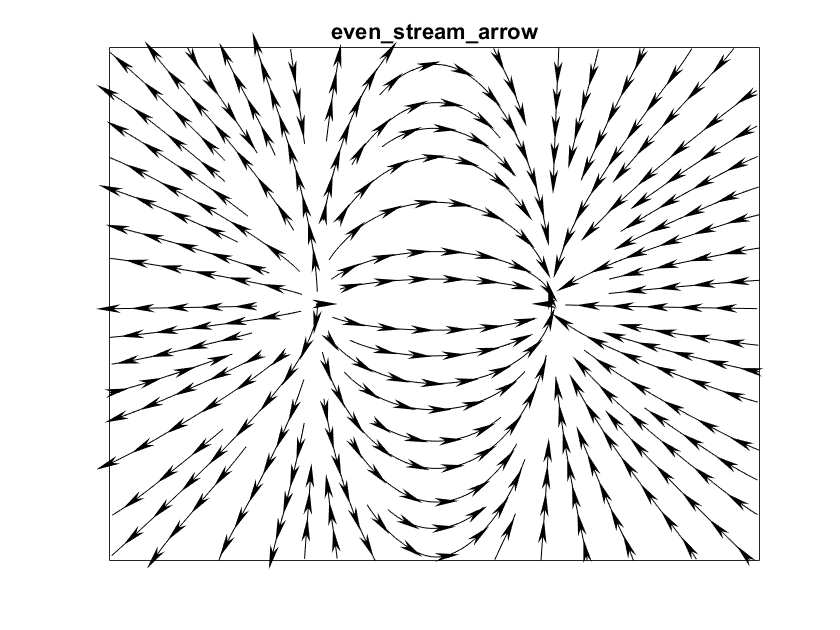
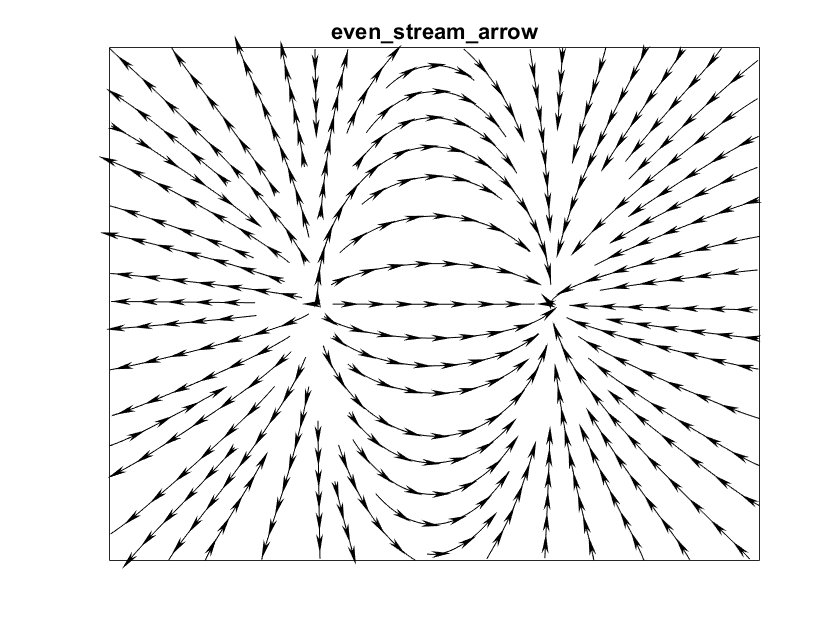
Updated docs, noted remaining tasks

diff --git a/html/even_stream_demo.html b/html/even_stream_demo.html
@@ -6,7 +6,7 @@
    <!--
 This HTML was auto-generated from MATLAB code.
 To make changes, update the MATLAB code and republish this document.
-      --><title>Evenly Spaced Streamlines</title><meta name="generator" content="MATLAB 9.0"><link rel="schema.DC" href="http://purl.org/dc/elements/1.1/"><meta name="DC.date" content="2016-10-02"><meta name="DC.source" content="even_stream_demo.m"><style type="text/css">
+      --><title>Evenly Spaced Streamlines</title><meta name="generator" content="MATLAB 9.0"><link rel="schema.DC" href="http://purl.org/dc/elements/1.1/"><meta name="DC.date" content="2016-10-03"><meta name="DC.source" content="even_stream_demo.m"><style type="text/css">
 html,body,div,span,applet,object,iframe,h1,h2,h3,h4,h5,h6,p,blockquote,pre,a,abbr,acronym,address,big,cite,code,del,dfn,em,font,img,ins,kbd,q,s,samp,small,strike,strong,sub,sup,tt,var,b,u,i,center,dl,dt,dd,ol,ul,li,fieldset,form,label,legend,table,caption,tbody,tfoot,thead,tr,th,td{margin:0;padding:0;border:0;outline:0;font-size:100%;vertical-align:baseline;background:transparent}body{line-height:1}ol,ul{list-style:none}blockquote,q{quotes:none}blockquote:before,blockquote:after,q:before,q:after{content:'';content:none}:focus{outine:0}ins{text-decoration:none}del{text-decoration:line-through}table{border-collapse:collapse;border-spacing:0}
 
 html { min-height:100%; margin-bottom:1px; }
@@ -100,8 +100,8 @@ ax = gca;
 ax.XTick = [];
 ax.YTick = [];
 fprintf(<span class="string">'even_stream_line: %.3f s elapsed\n'</span>, toc);
-</pre><pre class="codeoutput">even_stream_data: 0.674 s elapsed
-even_stream_line: 0.052 s elapsed
+</pre><pre class="codeoutput">even_stream_data: 0.795 s elapsed
+even_stream_line: 0.067 s elapsed
 </pre><img vspace="5" hspace="5" src="even_stream_demo_02.png" style="width:560px;height:420px;" alt=""> <h2>Plot stream lines with arrow glyphs<a name="3"></a></h2><p>Compute streamlines and plot lines with arrow glyphs to indicate flow direction.</p><pre class="codeinput"><span class="comment">% compute</span>
 tic
 xy = even_stream_data(xx, yy, dzdx, dzdy, 0.05, 0.025);
@@ -112,15 +112,15 @@ tic
 hf = figure;
 hf.Name = sprintf(<span class="string">'%s: even stream arrow'</span>, mfilename);
 even_stream_arrow(xy, <span class="string">'LineStyle'</span>, <span class="string">'-'</span>, <span class="string">'LineWidth'</span>, 0.5, <span class="string">'Color'</span>, <span class="string">'k'</span>, <span class="keyword">...</span>
-    <span class="string">'ArrowLength'</span>, 5, <span class="string">'ArrowTipAngle'</span>, 30, <span class="string">'ArrowBaseAngle'</span>, 10, <span class="keyword">...</span>
-    <span class="string">'ArrowSpace'</span>, 10);
+    <span class="string">'ArrowLength'</span>, 4, <span class="string">'ArrowTipAngle'</span>, 30, <span class="string">'ArrowBaseAngle'</span>, 10, <span class="keyword">...</span>
+    <span class="string">'ArrowSpace'</span>, 0.05*range(vv));
 title(<span class="string">'even\_stream\_arrow'</span>);
 ax = gca;
 ax.XTick = [];
 ax.YTick = [];
 fprintf(<span class="string">'even_stream_arrow: %.3f s elapsed\n'</span>, toc);
-</pre><pre class="codeoutput">even_stream_data: 0.714 s elapsed
-even_stream_arrow: 0.435 s elapsed
+</pre><pre class="codeoutput">even_stream_data: 0.621 s elapsed
+even_stream_arrow: 0.645 s elapsed
 </pre><img vspace="5" hspace="5" src="even_stream_demo_03.png" style="width:560px;height:420px;" alt=""> <h2>Plot tapered stream lines<a name="4"></a></h2><p>Plot stream lines with tapering effect, such that line width scales with the distance to the nearest neighboring streamline.</p><pre class="codeinput"><span class="comment">% compute</span>
 tic
 [xy, dist] = even_stream_data(xx, yy, dzdx, dzdy, 0.05, 0.025);
@@ -136,13 +136,9 @@ ax = gca;
 ax.XTick = [];
 ax.YTick = [];
 fprintf(<span class="string">'even_stream_taper: %.3f s elapsed\n'</span>, toc);
-</pre><pre class="codeoutput">even_stream_data: 1.612 s elapsed
-even_stream_taper: 0.134 s elapsed
-</pre><img vspace="5" hspace="5" src="even_stream_demo_04.png" style="width:560px;height:420px;" alt=""> <h2>Plot textured stream lines<a name="5"></a></h2><p>Plot streamlines with texture effect. This is most effective with closely-spaced streamlines, in which case it mimics the popular line-integral-convilution (LIC) method for visualizing flow fields.</p><pre class="codeinput"><span class="comment">% parameters</span>
-dist_sep = 0.003*range(vv);
-dist_test = 0.5*dist_sep;
-
-<span class="comment">% compute</span>
+</pre><pre class="codeoutput">even_stream_data: 1.599 s elapsed
+even_stream_taper: 0.156 s elapsed
+</pre><img vspace="5" hspace="5" src="even_stream_demo_04.png" style="width:560px;height:420px;" alt=""> <h2>Plot textured stream lines<a name="5"></a></h2><p>Plot streamlines with texture effect. This is most effective with closely-spaced streamlines, in which case it mimics the popular line-integral-convilution (LIC) method for visualizing flow fields.</p><pre class="codeinput"><span class="comment">% compute</span>
 tic
 xy = even_stream_data(xx, yy, dzdx, dzdy, 0.003, 0.0015);
 fprintf(<span class="string">'even_stream_data: %.3f s elapsed\n'</span>, toc);
@@ -151,14 +147,14 @@ fprintf(<span class="string">'even_stream_data: %.3f s elapsed\n'</span>, toc);
 tic
 hf = figure;
 hf.Name = sprintf(<span class="string">'%s: even stream texture'</span>, mfilename);
-even_stream_texture(xy, <span class="string">'LineWidth'</span>, 1, <span class="string">'Period'</span>, 20);
+even_stream_texture(xy, <span class="string">'LineWidth'</span>, 1, <span class="string">'Period'</span>, 0.20*range(vv));
 title(<span class="string">'even\_stream\_texture'</span>);
 ax = gca;
 ax.XTick = [];
 ax.YTick = [];
 fprintf(<span class="string">'even_stream_texture: %.3f s elapsed\n'</span>, toc);
-</pre><pre class="codeoutput">even_stream_data: 236.974 s elapsed
-even_stream_texture: 0.592 s elapsed
+</pre><pre class="codeoutput">even_stream_data: 247.593 s elapsed
+even_stream_texture: 0.752 s elapsed
 </pre><img vspace="5" hspace="5" src="even_stream_demo_05.png" style="width:560px;height:420px;" alt=""> <h2>References<a name="6"></a></h2><div><ol><li>Jobard, B., &amp; Lefer, W. (1997). Creating Evenly-Spaced Streamlines of   Arbitrary Density. In W. Lefer &amp; M. Grave (Eds.), Visualization in   Scientific Computing ?97: Proceedings of the Eurographics Workshop in   Boulogne-sur-Mer France, April 28--30, 1997 (pp. 43?55). inbook,   Vienna: Springer Vienna. <a href="http://doi.org/10.1007/978-3-7091-6876-9_5">http://doi.org/10.1007/978-3-7091-6876-9_5</a></li></ol></div><p class="footer"><br><a href="http://www.mathworks.com/products/matlab/">Published with MATLAB&reg; R2016a</a><br></p></div><!--
 ##### SOURCE BEGIN #####
 %% Evenly Spaced Streamlines
@@ -227,8 +223,8 @@ tic
 hf = figure;
 hf.Name = sprintf('%s: even stream arrow', mfilename);
 even_stream_arrow(xy, 'LineStyle', '-', 'LineWidth', 0.5, 'Color', 'k', ...
-    'ArrowLength', 5, 'ArrowTipAngle', 30, 'ArrowBaseAngle', 10, ...
-    'ArrowSpace', 10);
+    'ArrowLength', 4, 'ArrowTipAngle', 30, 'ArrowBaseAngle', 10, ...
+    'ArrowSpace', 0.05*range(vv));
 title('even\_stream\_arrow');
 ax = gca;
 ax.XTick = [];
@@ -260,10 +256,6 @@ fprintf('even_stream_taper: %.3f s elapsed\n', toc);
 % closely-spaced streamlines, in which case it mimics the popular
 % line-integral-convilution (LIC) method for visualizing flow fields.
 
-% parameters
-dist_sep = 0.003*range(vv);
-dist_test = 0.5*dist_sep;
-
 % compute
 tic
 xy = even_stream_data(xx, yy, dzdx, dzdy, 0.003, 0.0015);
@@ -273,7 +265,7 @@ fprintf('even_stream_data: %.3f s elapsed\n', toc);
 tic
 hf = figure;
 hf.Name = sprintf('%s: even stream texture', mfilename);
-even_stream_texture(xy, 'LineWidth', 1, 'Period', 20);
+even_stream_texture(xy, 'LineWidth', 1, 'Period', 0.20*range(vv));
 title('even\_stream\_texture');
 ax = gca;
 ax.XTick = [];

diff --git a/even_stream_demo.m b/even_stream_demo.m
@@ -106,7 +106,7 @@ fprintf('even_stream_data: %.3f s elapsed\n', toc);
 tic
 hf = figure;
 hf.Name = sprintf('%s: even stream texture', mfilename);
-even_stream_texture(xy, 'LineWidth', 2, 'Period', 0.20*range(vv));
+even_stream_texture(xy, 'LineWidth', 1, 'Period', 0.20*range(vv));
 title('even\_stream\_texture');
 ax = gca;
 ax.XTick = [];

diff --git a/publish_docs.m b/publish_docs.m
@@ -1,4 +1,4 @@
 % Script to automate generating documentation for demo cases. Output
 % locations and filenames are chosed to play well with Github Pages.
 
-publish('even_stream_demo.m', 'format', 'html', 'outputDir', 'docs');
+publish('even_stream_demo.m', 'format', 'html', 'outputDir', 'html');

diff --git a/TODO.md b/TODO.md
@@ -1,0 +1,2 @@
++ even_stream_arrow: occasional lines show arrows in the wrong direction (see current docs)
++ even_stream_texture: current texture gives impression of opposite direction than intended 
